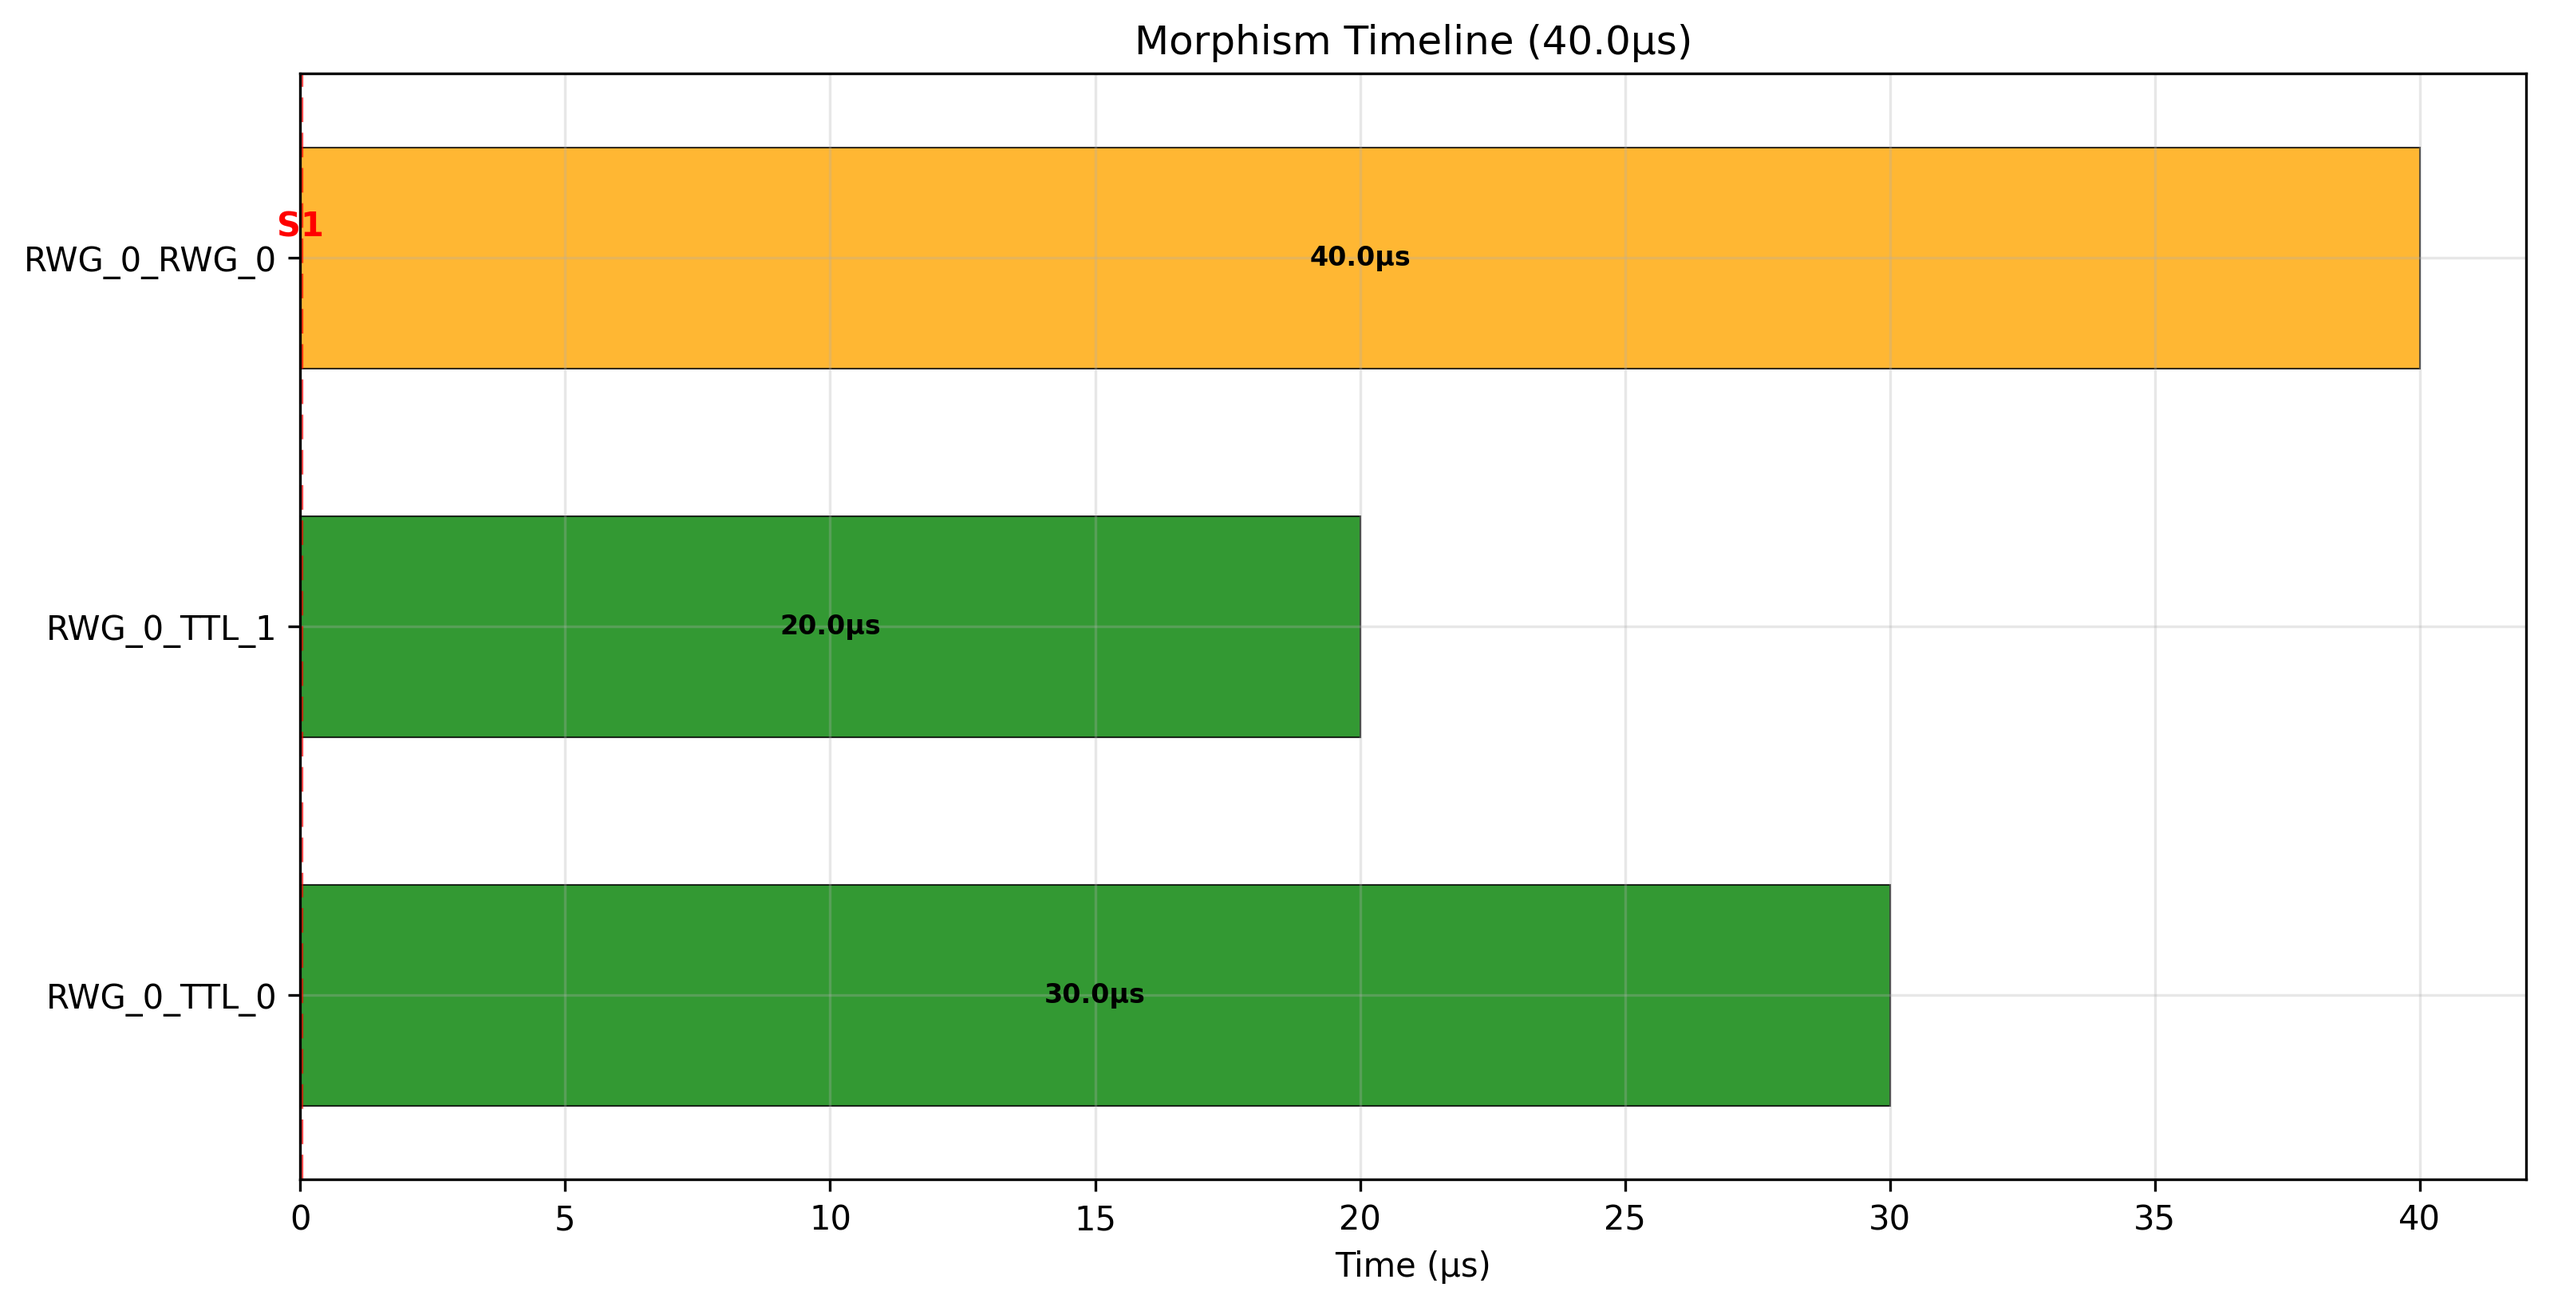
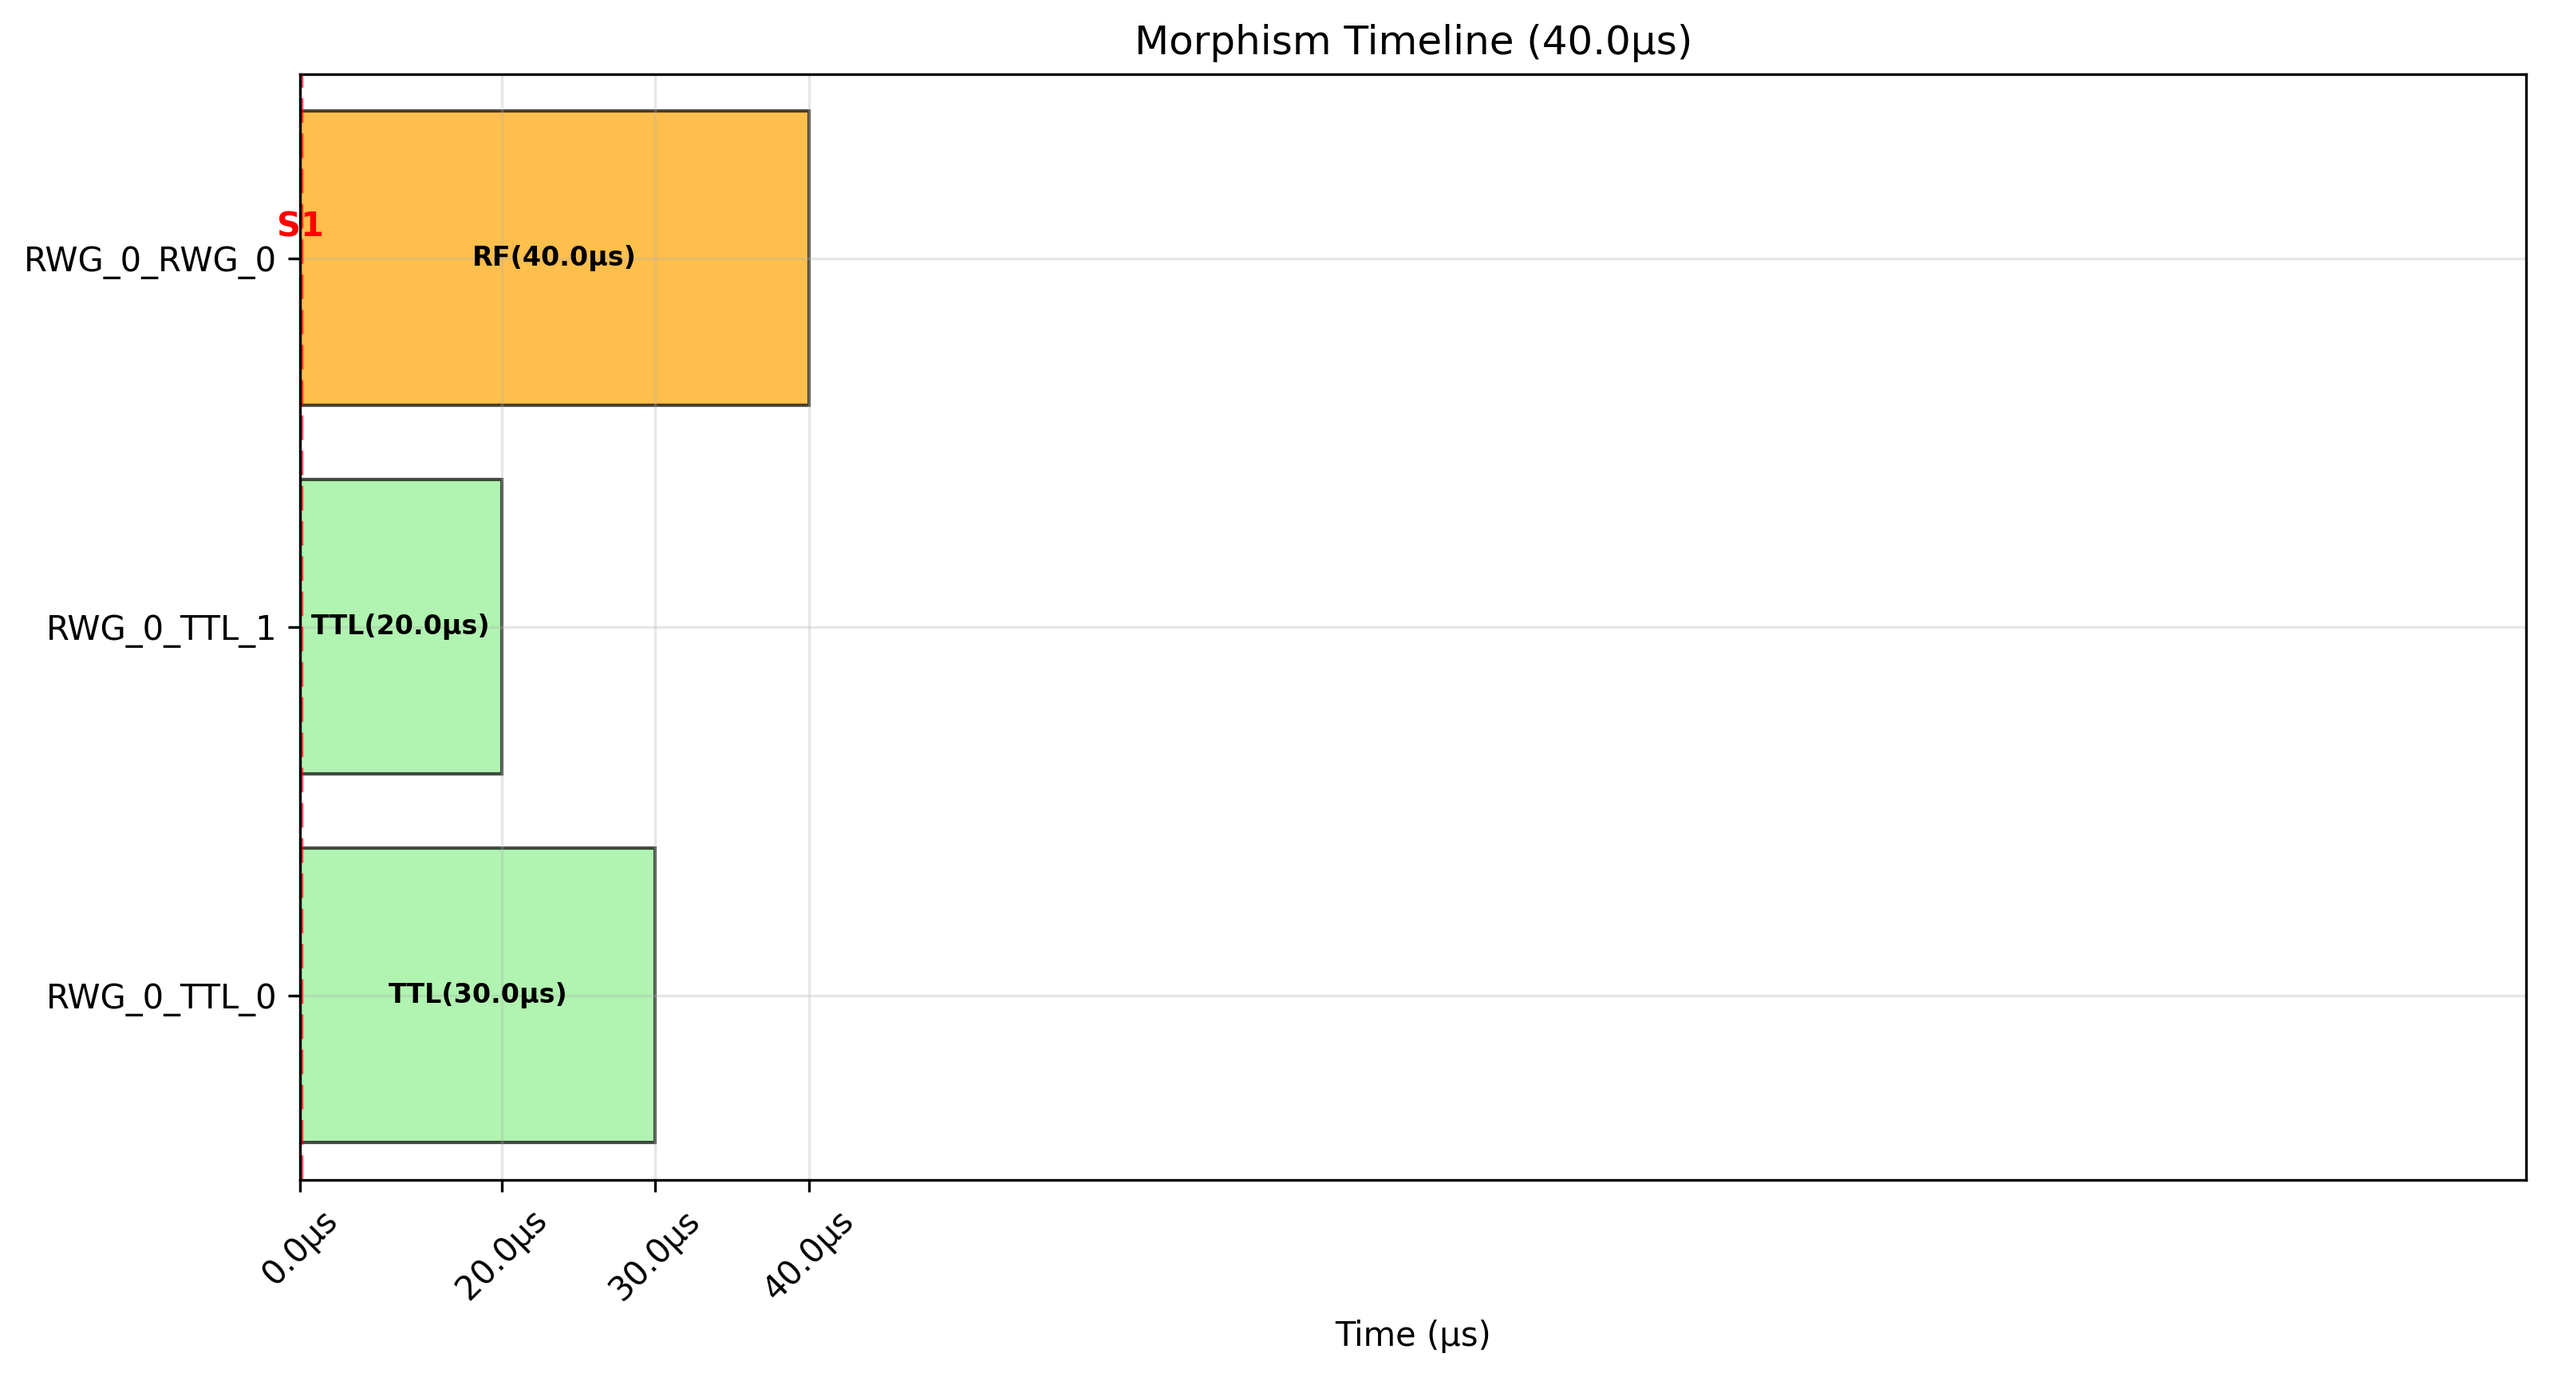
add adaptive time scaling to morphism visualization
- Implement adaptive time mapping that ensures all operations are visible
- Short intervals are expanded for visibility, long intervals compressed
- Maintain strict synchronization alignment across channels
- Add detailed time point information in text output
- Update matplotlib plots with adaptive x-axis scaling
- Enhance demo with extreme time scale examples
- Preserve operation visibility regardless of duration differences

Key benefits:
- 0.1μs operations remain visible alongside 1000μs waits
- Synchronization points aligned vertically across channels
- Real time values clearly labeled on adaptive scale
- No operation hidden due to extreme time scale differences

🤖 Generated with [Claude Code](https://claude.ai/code)

diff --git a/catseq/visualization/timeline.py b/catseq/visualization/timeline.py
@@ -217,8 +217,196 @@ def _group_by_channel(operations: List[PhysicalOperation]) -> Dict[Channel, List
     return channel_ops
 
 
+def _collect_all_sync_points(physical_lanes: Dict[Board, PhysicalLane]) -> List[float]:
+    """收集所有关键时间点（同步点和操作边界）"""
+    time_points = set([0.0])  # 总是包含起始点
+    
+    for board, physical_lane in physical_lanes.items():
+        for pop in physical_lane.operations:
+            # 添加操作开始时间
+            time_points.add(pop.timestamp_us)
+            # 添加操作结束时间
+            end_time = pop.timestamp_us + cycles_to_us(pop.operation.duration_cycles)
+            time_points.add(end_time)
+    
+    # 排序并返回
+    return sorted(time_points)
+
+
+def _create_adaptive_time_mapping(sync_points: List[float]) -> Dict[float, float]:
+    """创建自适应时间映射：真实时间 -> 显示位置
+    
+    策略：
+    - 每个同步点之间的间隔至少保证最小可视距离
+    - 长时间间隔压缩显示，短时间间隔放大显示
+    - 保证同步点在所有通道上垂直对齐
+    """
+    if len(sync_points) <= 1:
+        return {0.0: 0.0}
+    
+    time_mapping = {}
+    current_display_pos = 0.0
+    min_segment_width = 1.0  # 最小显示宽度
+    max_segment_width = 10.0  # 最大显示宽度
+    
+    for i, time_point in enumerate(sync_points):
+        time_mapping[time_point] = current_display_pos
+        
+        if i < len(sync_points) - 1:
+            # 计算到下一个时间点的间隔
+            time_diff = sync_points[i + 1] - time_point
+            
+            if time_diff == 0:
+                # 同时发生的事件，不增加显示位置
+                continue
+            elif time_diff < 1.0:  # 小于 1μs，放大显示
+                display_width = max(min_segment_width, time_diff * 2)
+            elif time_diff > 100.0:  # 大于 100μs，压缩显示
+                display_width = min(max_segment_width, 2 + time_diff / 50)
+            else:  # 1-100μs，线性映射
+                display_width = min_segment_width + (time_diff / 100.0) * (max_segment_width - min_segment_width)
+            
+            current_display_pos += display_width
+    
+    return time_mapping
+
+
+def _draw_adaptive_channel_operations(ax: plt.Axes, channel: Channel, 
+                                    ops: List[PhysicalOperation], 
+                                    y_pos: int, time_mapping: Dict[float, float]):
+    """使用自适应时间映射绘制通道操作"""
+    
+    def map_time_to_display(time_us: float) -> float:
+        """将真实时间映射到显示位置"""
+        # 找到最接近的映射点进行插值
+        sorted_times = sorted(time_mapping.keys())
+        
+        if time_us <= sorted_times[0]:
+            return time_mapping[sorted_times[0]]
+        if time_us >= sorted_times[-1]:
+            return time_mapping[sorted_times[-1]]
+        
+        # 线性插值
+        for i in range(len(sorted_times) - 1):
+            t1, t2 = sorted_times[i], sorted_times[i + 1]
+            if t1 <= time_us <= t2:
+                ratio = (time_us - t1) / (t2 - t1) if t2 > t1 else 0
+                return time_mapping[t1] + ratio * (time_mapping[t2] - time_mapping[t1])
+        
+        return time_mapping[sorted_times[-1]]
+    
+    # 检测脉冲模式并绘制
+    pulse_patterns = _detect_channel_pulses(channel, ops)
+    drawn_ops = set()
+    
+    # 绘制脉冲模式
+    for pattern in pulse_patterns:
+        start_display = map_time_to_display(pattern['start_time'])
+        end_display = map_time_to_display(pattern['start_time'] + pattern['duration'])
+        width = max(0.5, end_display - start_display)  # 确保最小宽度
+        
+        if pattern['type'] == 'TTL_PULSE':
+            color = 'lightgreen'
+            label = f"TTL({pattern['duration']:.1f}μs)"
+        elif pattern['type'] == 'RF_PULSE':
+            color = 'orange'
+            label = f"RF({pattern['duration']:.1f}μs)"
+        else:
+            color = 'lightgray'
+            label = f"{pattern['duration']:.1f}μs"
+        
+        # 绘制脉冲矩形
+        rect = plt.Rectangle(
+            (start_display, y_pos - 0.4),
+            width, 0.8,
+            facecolor=color, alpha=0.7,
+            edgecolor='black', linewidth=1
+        )
+        ax.add_patch(rect)
+        
+        # 添加标签
+        ax.text(start_display + width/2, y_pos, label,
+               ha='center', va='center', fontsize=8, fontweight='bold')
+        
+        # 标记已绘制的操作
+        for op_idx in pattern.get('operation_indices', []):
+            drawn_ops.add(op_idx)
+    
+    # 绘制其他单独操作
+    for i, pop in enumerate(ops):
+        if i in drawn_ops:
+            continue
+        
+        display_pos = map_time_to_display(pop.timestamp_us)
+        op_type = pop.operation.operation_type
+        color = _get_operation_color(op_type)
+        symbol = _get_operation_symbol_text(op_type)
+        
+        # 绘制为垂直标记线 (使用相对位置)
+        ax.plot([display_pos, display_pos], [y_pos-0.4, y_pos+0.4], 
+               color=color, linewidth=2)
+        
+        # 添加操作标签
+        ax.text(display_pos, y_pos + 0.2, symbol, ha='center', va='bottom', 
+               fontsize=6, rotation=90)
+
+
+def _setup_adaptive_time_ticks(ax: plt.Axes, sync_points: List[float], 
+                              time_mapping: Dict[float, float]):
+    """设置自适应时间轴刻度"""
+    # 选择重要的时间点作为刻度
+    important_times = []
+    display_positions = []
+    
+    # 总是包含起始点
+    if sync_points:
+        important_times.append(sync_points[0])
+        display_positions.append(time_mapping[sync_points[0]])
+    
+    # 添加其他重要时间点（避免过于密集）
+    last_display_pos = time_mapping.get(sync_points[0], 0) if sync_points else 0
+    min_tick_spacing = 2.0  # 最小刻度间距
+    
+    for time_point in sync_points[1:]:
+        display_pos = time_mapping[time_point]
+        if display_pos - last_display_pos >= min_tick_spacing:
+            important_times.append(time_point)
+            display_positions.append(display_pos)
+            last_display_pos = display_pos
+    
+    # 设置x轴刻度
+    ax.set_xticks(display_positions)
+    ax.set_xticklabels([f"{t:.1f}μs" for t in important_times], rotation=45)
+    ax.set_xlabel("时间 (自适应尺度)")
+
+
+def _get_operation_symbol_text(op_type: OperationType) -> str:
+    """获取操作的文本符号"""
+    symbol_map = {
+        OperationType.TTL_ON: "ON",
+        OperationType.TTL_OFF: "OFF",
+        OperationType.TTL_INIT: "INIT",
+        OperationType.RWG_INIT: "INIT", 
+        OperationType.RWG_SET_CARRIER: "CARR",
+        OperationType.RWG_LOAD_COEFFS: "LOAD",
+        OperationType.RWG_UPDATE_PARAMS: "PLAY",
+        OperationType.RWG_RF_SWITCH: "RF",
+        OperationType.SYNC_MASTER: "SYNC",
+        OperationType.SYNC_SLAVE: "SYNC",
+    }
+    return symbol_map.get(op_type, "OP")
+
+
 def _plot_compact_style(ax: plt.Axes, physical_lanes: Dict[Board, PhysicalLane], **kwargs):
-    """绘制紧凑风格的时间轴"""
+    """绘制紧凑风格的时间轴 - 自适应时间尺度，保证操作可见性和同步对齐"""
+    
+    # 1. 收集所有关键时间点（同步点）
+    sync_points = _collect_all_sync_points(physical_lanes)
+    
+    # 2. 创建自适应时间映射
+    time_mapping = _create_adaptive_time_mapping(sync_points)
+    
+    # 3. 绘制通道操作
     y_position = 0
     channel_labels = []
     
@@ -226,12 +414,15 @@ def _plot_compact_style(ax: plt.Axes, physical_lanes: Dict[Board, PhysicalLane],
         channel_ops = _group_by_channel(physical_lane.operations)
         
         for channel, ops in channel_ops.items():
-            _draw_channel_operations(ax, channel, ops, y_position, style='compact')
+            _draw_adaptive_channel_operations(ax, channel, ops, y_position, time_mapping)
             channel_labels.append(channel.global_id)
             y_position += 1
     
     ax.set_yticks(range(y_position))
     ax.set_yticklabels(channel_labels)
+    
+    # 4. 设置自适应时间轴标记
+    _setup_adaptive_time_ticks(ax, sync_points, time_mapping)
 
 
 def _plot_proportional_style(ax: plt.Axes, physical_lanes: Dict[Board, PhysicalLane], **kwargs):
@@ -401,10 +592,25 @@ def _setup_plot_aesthetics(ax: plt.Axes, total_duration_us: float):
 
 
 def _generate_compact_text(physical_lanes: Dict[Board, PhysicalLane], max_width: int) -> str:
-    """生成紧凑文本时间轴"""
+    """生成紧凑文本时间轴 - 显示自适应时间信息"""
     lines = []
-    lines.append(f"Timeline View (Compact):")
+    
+    # 计算自适应时间映射
+    sync_points = _collect_all_sync_points(physical_lanes)
+    time_mapping = _create_adaptive_time_mapping(sync_points)
+    
+    lines.append(f"Timeline View (Adaptive Scale):")
     lines.append("=" * min(max_width, 80))
+    
+    # 显示时间轴信息
+    if len(sync_points) > 1:
+        time_info = f"Time points: {sync_points[0]:.1f}μs"
+        if len(sync_points) > 2:
+            time_info += f" → ... → {sync_points[-1]:.1f}μs"
+        elif len(sync_points) == 2:
+            time_info += f" → {sync_points[-1]:.1f}μs"
+        lines.append(time_info)
+        lines.append("")
     
     for board, physical_lane in physical_lanes.items():
         channel_ops = _group_by_channel(physical_lane.operations)
@@ -414,17 +620,20 @@ def _generate_compact_text(physical_lanes: Dict[Board, PhysicalLane], max_width:
             patterns = _detect_channel_pulses(channel, ops)
             
             if patterns:
-                # 显示脉冲模式
+                # 显示脉冲模式与时间信息
                 pattern_strs = []
                 for pattern in patterns:
+                    start_t = pattern['start_time']
+                    duration = pattern['duration']
+                    
                     if pattern['type'] == 'TTL_PULSE':
-                        pattern_strs.append(f"🔲 TTL({pattern['duration']:.1f}μs)")
+                        pattern_strs.append(f"🔲 TTL[t={start_t:.1f}μs]({duration:.1f}μs)")
                     elif pattern['type'] == 'RF_PULSE':
-                        pattern_strs.append(f"📡 RF({pattern['duration']:.1f}μs)")
+                        pattern_strs.append(f"📡 RF[t={start_t:.1f}μs]({duration:.1f}μs)")
                 
                 timeline = " → ".join(pattern_strs)
             else:
-                # 显示详细操作
+                # 显示详细操作与时间戳
                 op_strs = []
                 for pop in ops:
                     op_name = _format_operation_name(pop.operation.operation_type)
@@ -432,6 +641,11 @@ def _generate_compact_text(physical_lanes: Dict[Board, PhysicalLane], max_width:
                 timeline = " → ".join(op_strs)
             
             lines.append(f"{channel.global_id:<12} │ {timeline}")
+    
+    # 显示时间尺度压缩信息
+    if len(sync_points) > 2:
+        lines.append("")
+        lines.append("📏 Time scale: adaptive (short intervals expanded, long intervals compressed)")
     
     return "\n".join(lines)
 

diff --git a/examples/visualization_demo.py b/examples/visualization_demo.py
@@ -88,8 +88,21 @@ def demo_functional_visualization():
         print(f"  {pattern['type']}: {ch} - {pattern['duration']:.1f}μs at t={pattern['start_time']:.1f}μs")
     print()
     
-    # Demo 8: Universal interface
-    print("8. Universal Interface Examples:")
+    # Demo 8: Adaptive time scaling demonstration
+    print("8. Adaptive Time Scaling:")
+    
+    # Create extreme time scale differences
+    quick_start = ttl.pulse(ttl_ch0, 0.5)    # 0.5μs - very short
+    long_gap = identity(200.0)               # 200μs - long wait  
+    quick_end = ttl.pulse(ttl_ch1, 1.0)      # 1μs - short
+    
+    adaptive_demo = quick_start >> long_gap >> quick_end
+    print("Sequence with extreme time differences:")
+    print(text_timeline(adaptive_demo, style='compact'))
+    print()
+    
+    # Demo 9: Universal interface
+    print("9. Universal Interface Examples:")
     
     # Text mode
     text_result = visualize_morphism(simple_pulse, mode='text', style='compact')
@@ -113,6 +126,7 @@ def demo_functional_visualization():
     print("✅ Pulse pattern recognition - intelligent operation grouping")
     print("✅ Sync detection - automatic synchronization analysis")
     print("✅ Multiple output formats - text and matplotlib plots")
+    print("✅ Adaptive time scaling - ensures all operations are visible")
     print("✅ Scalable design - handles large time spans efficiently")
 
 
